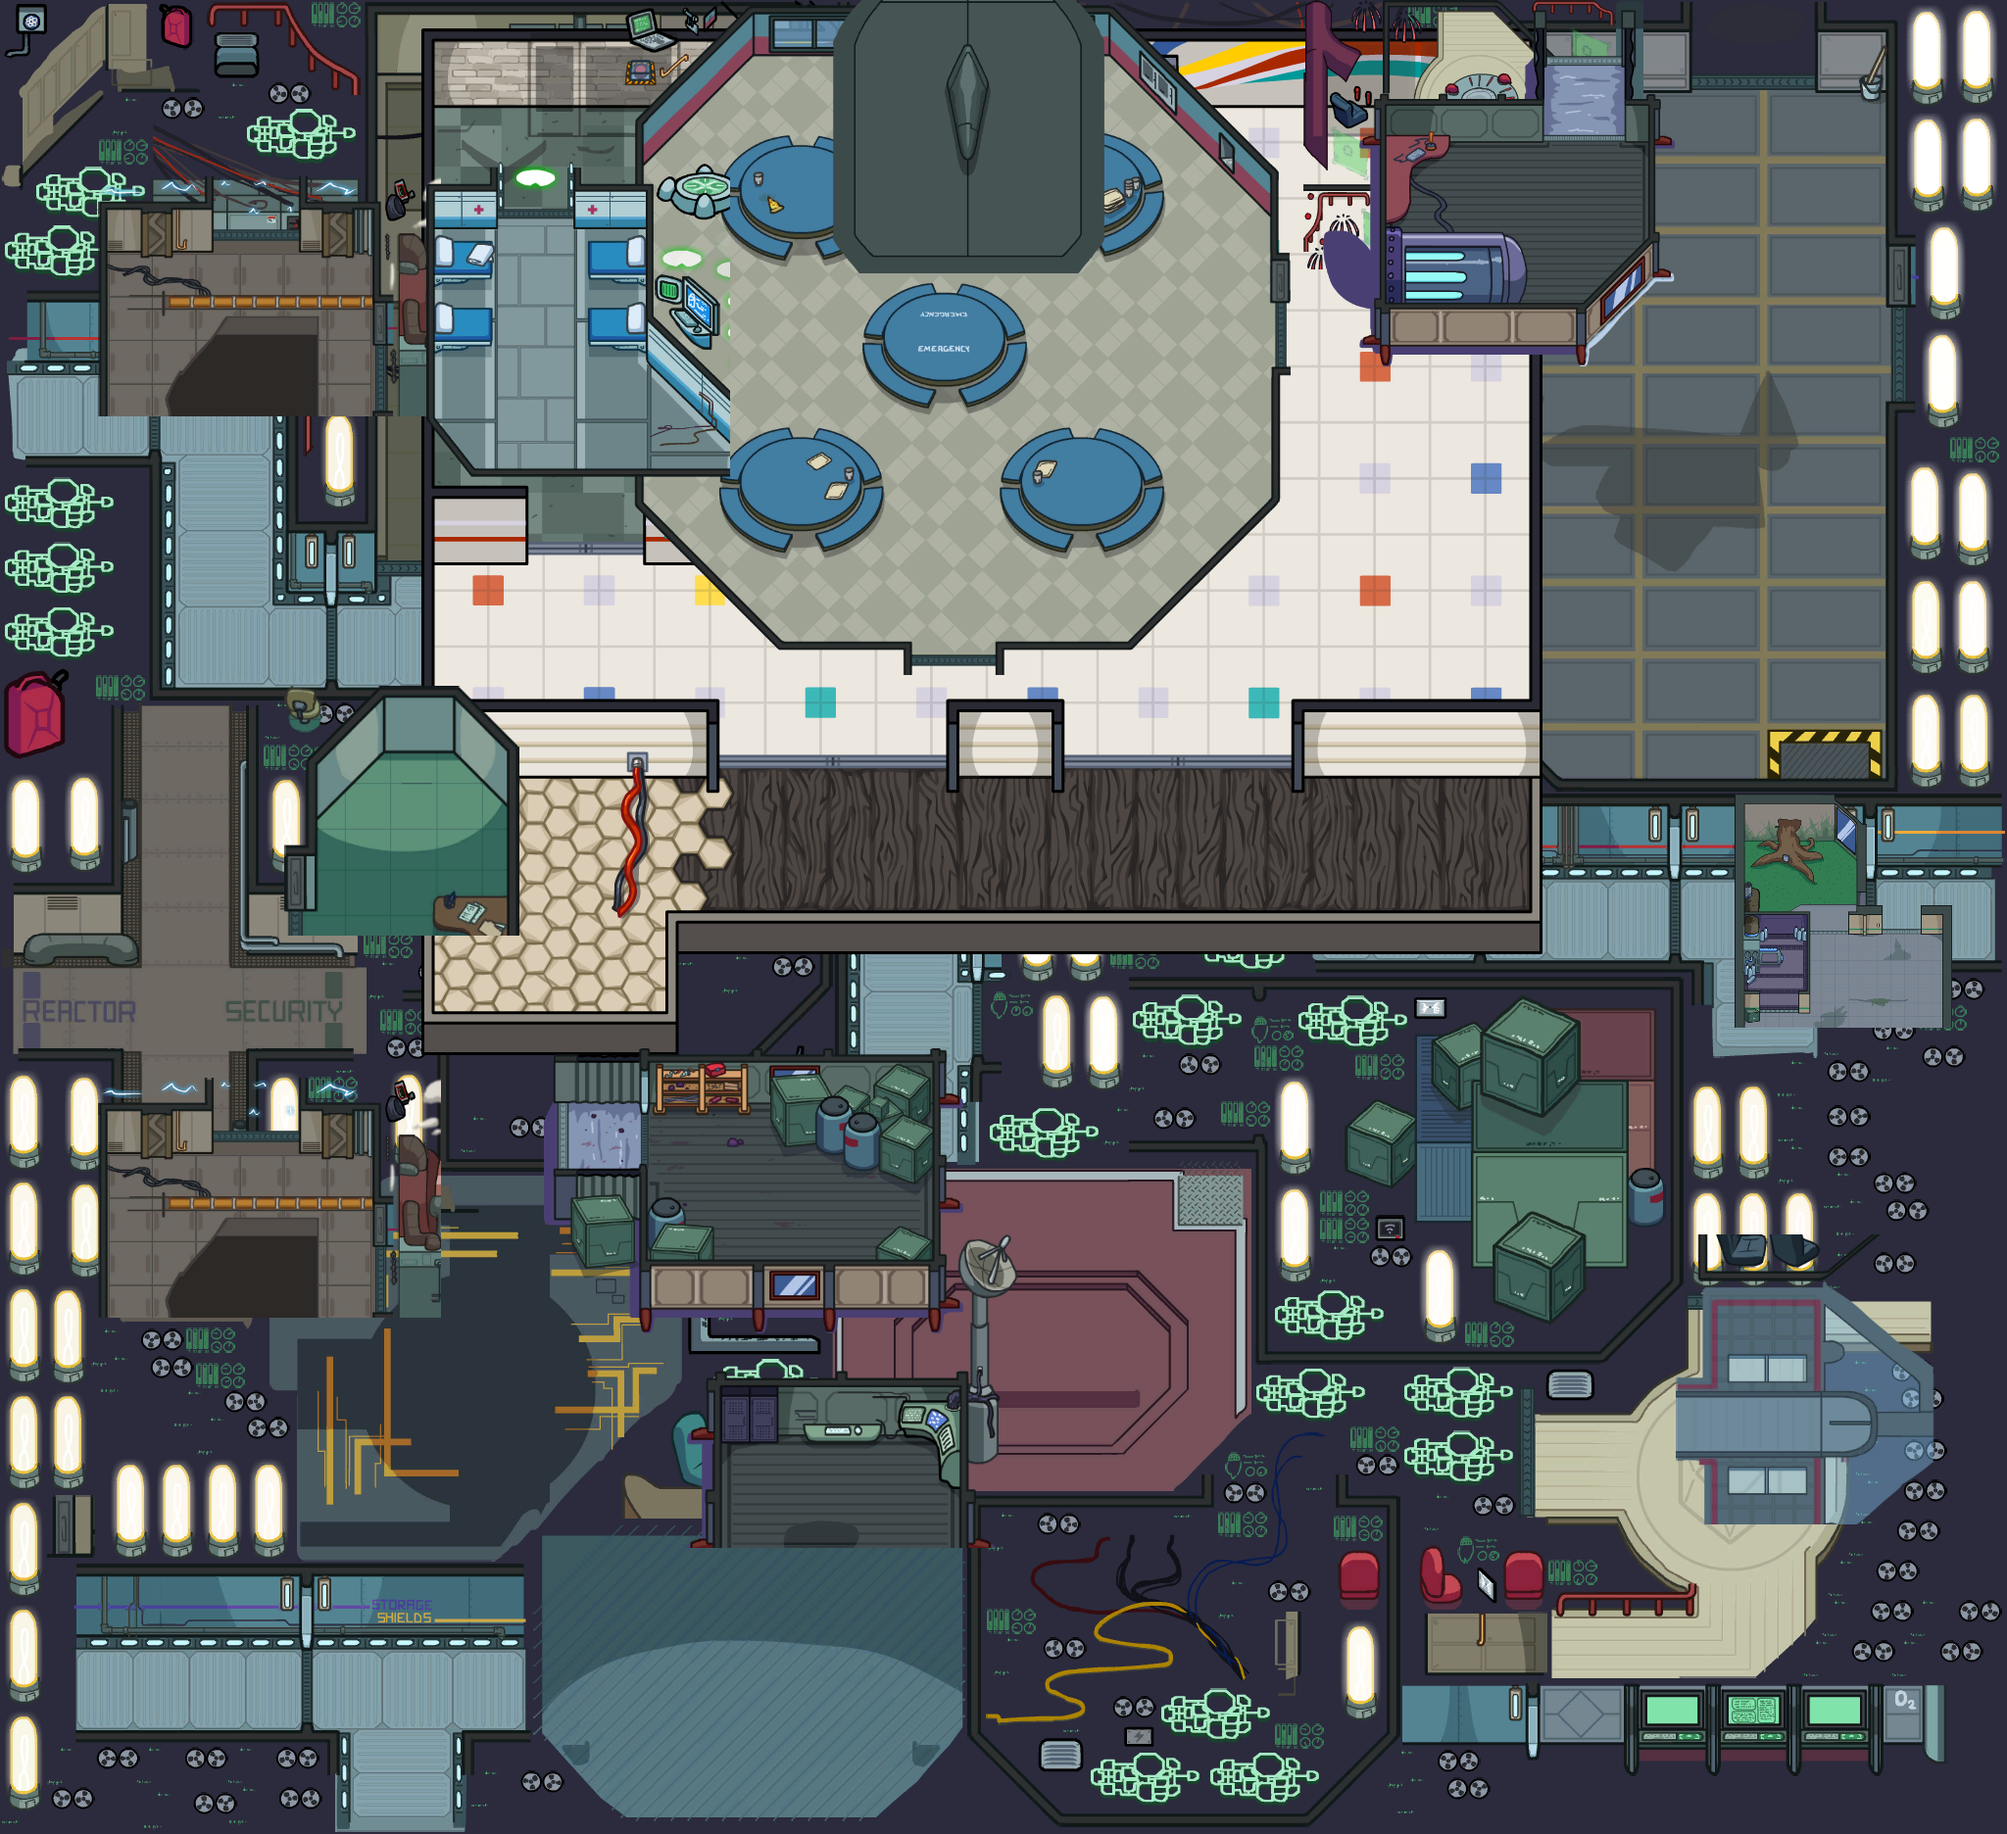
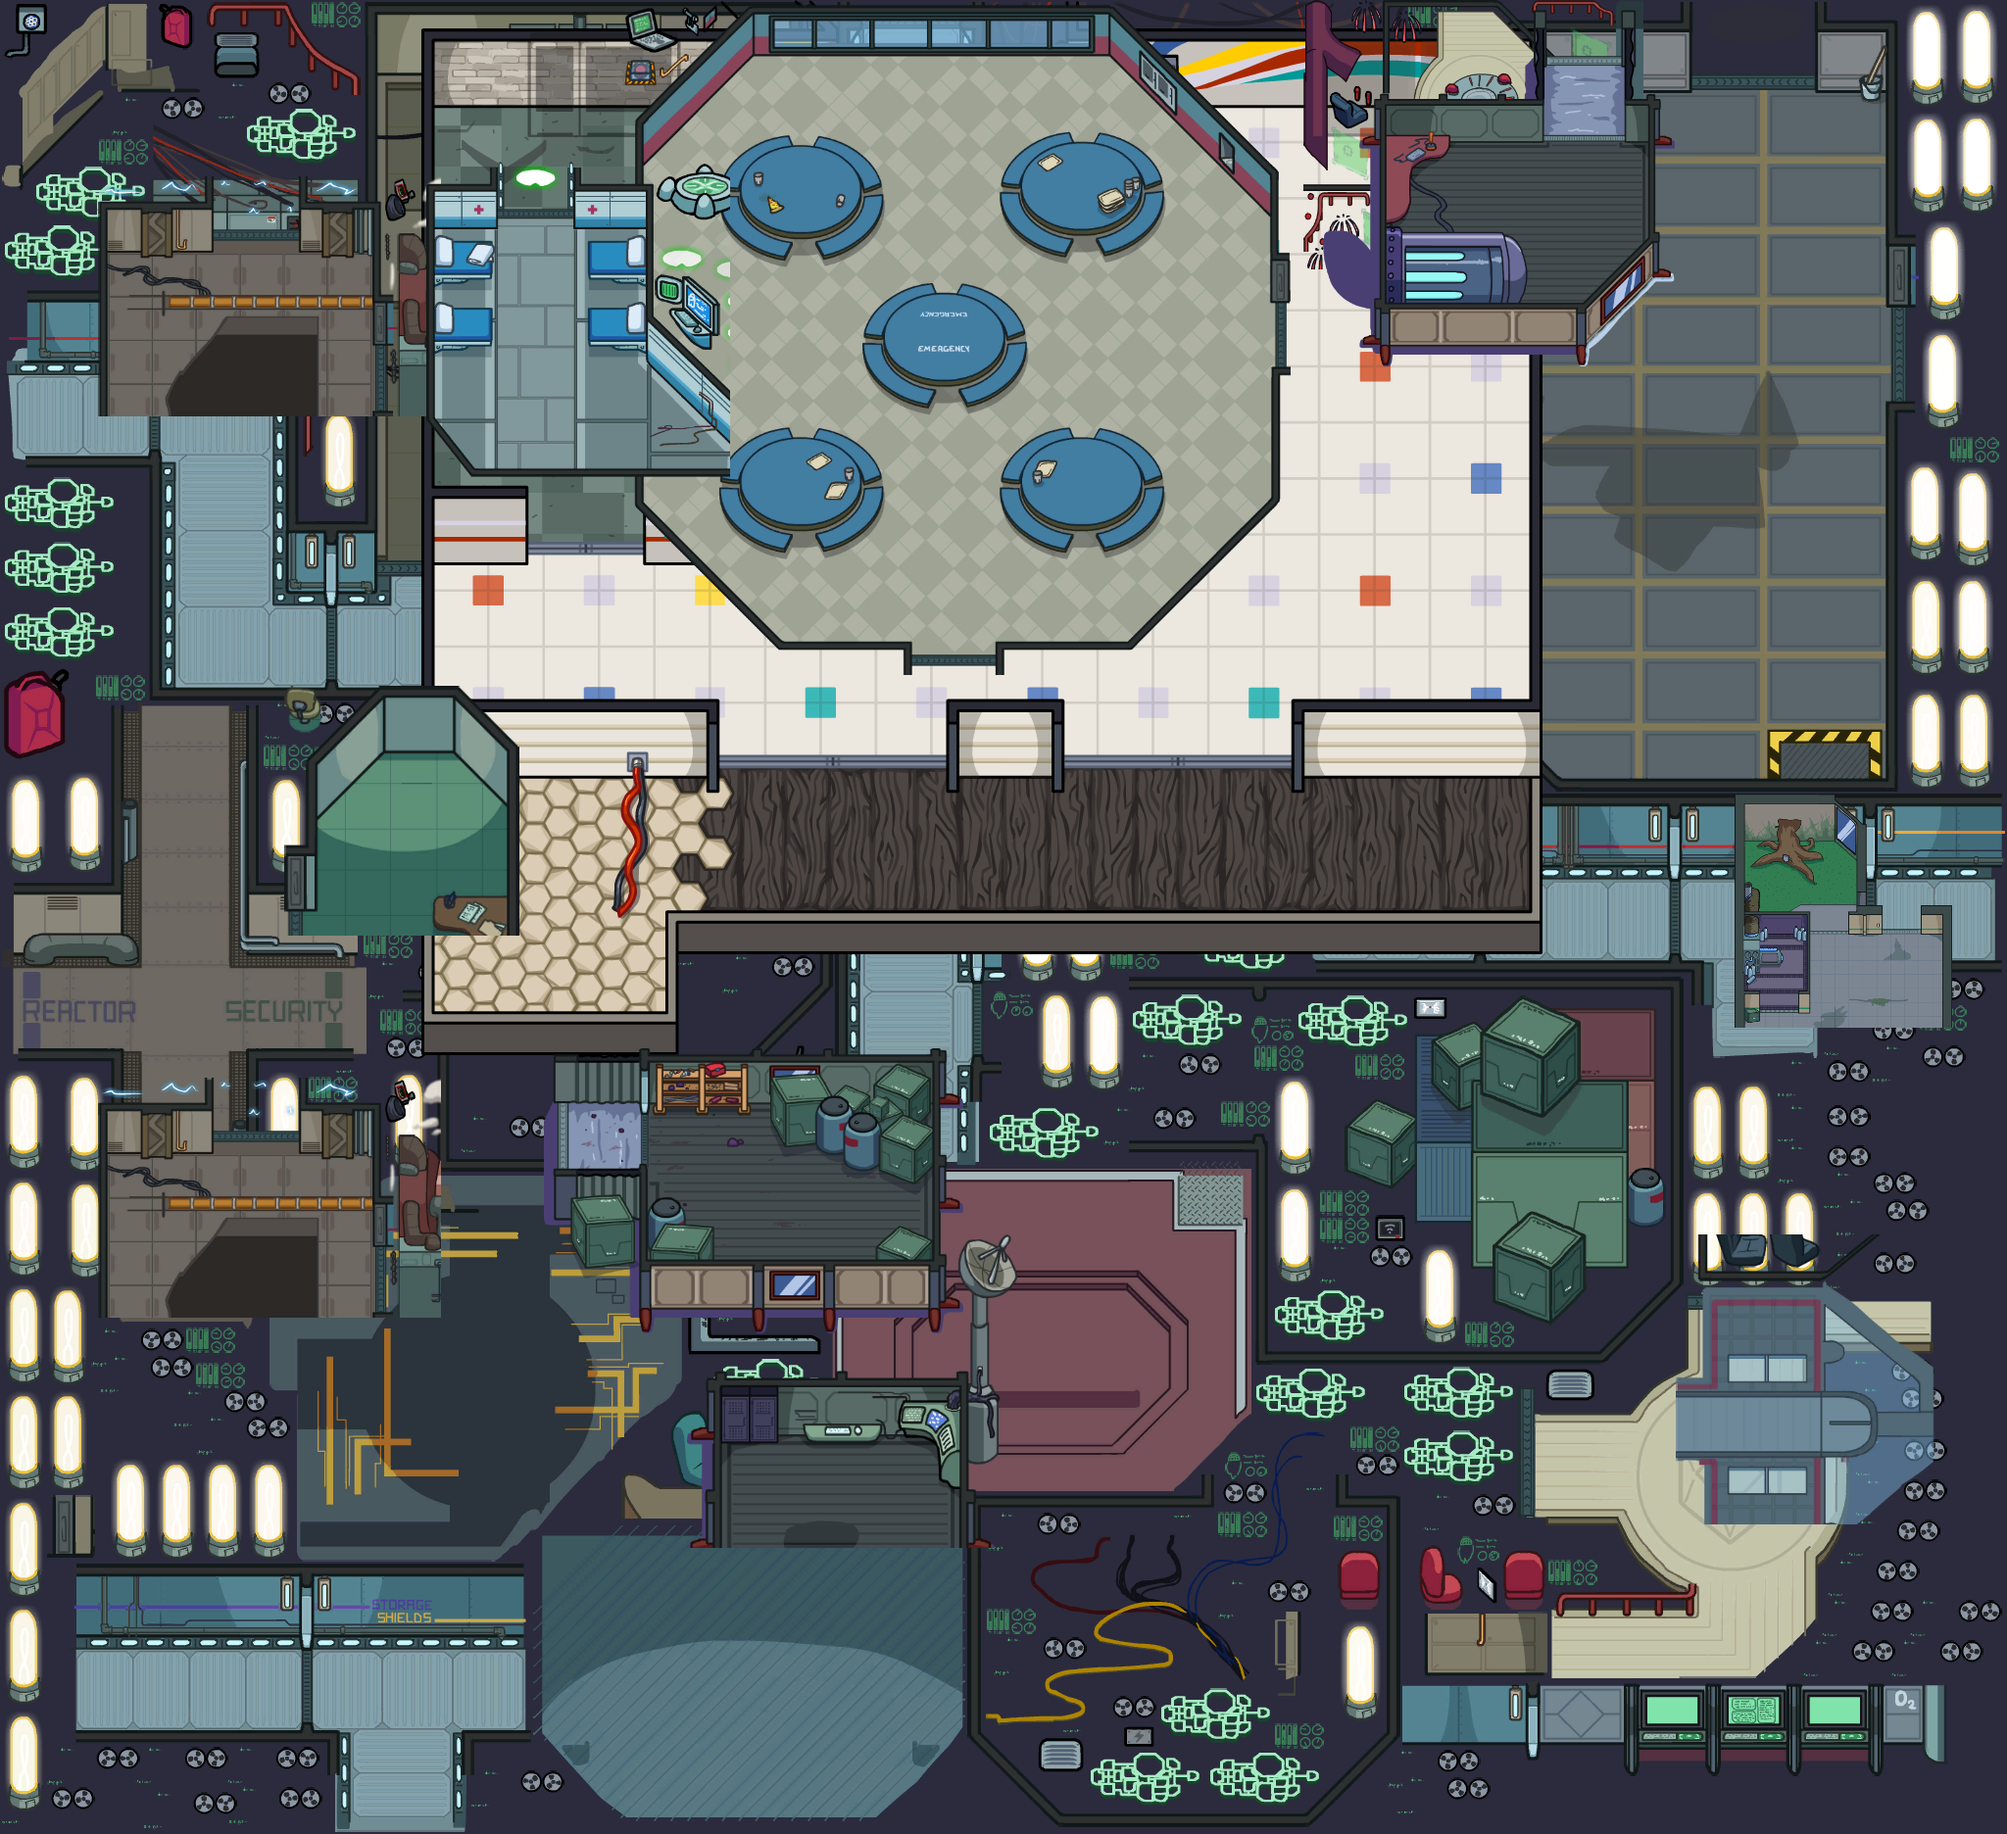
Update asset images and adjust layer configuration. Replaced skeld-map.png, stage-4-foreground.png, and stage-5-optional.png with new versions. Disabled the decorative top hatch layer by default in build-composite-map.ts to prevent obstruction of cafeteria tables, with an option to enable it via com

Changed region(s): [[0.4062, 0.0, 0.5625, 0.1549]]

diff --git a/scripts/build-composite-map.ts b/scripts/build-composite-map.ts
@@ -243,8 +243,8 @@ const LAYER_STACK: Record<StageName, LayerConfig[]> = {
       x: 850,
       y: -10,
       scale: 0.60,
-      enabled: true,
-      notes: 'Decorative top hatch over cafeteria center.',
+      enabled: false,
+      notes: 'Disabled by default to avoid covering cafeteria tables; enable via --include-optional=dropshipTop when needed.',
     },
   ],
   optional: [
